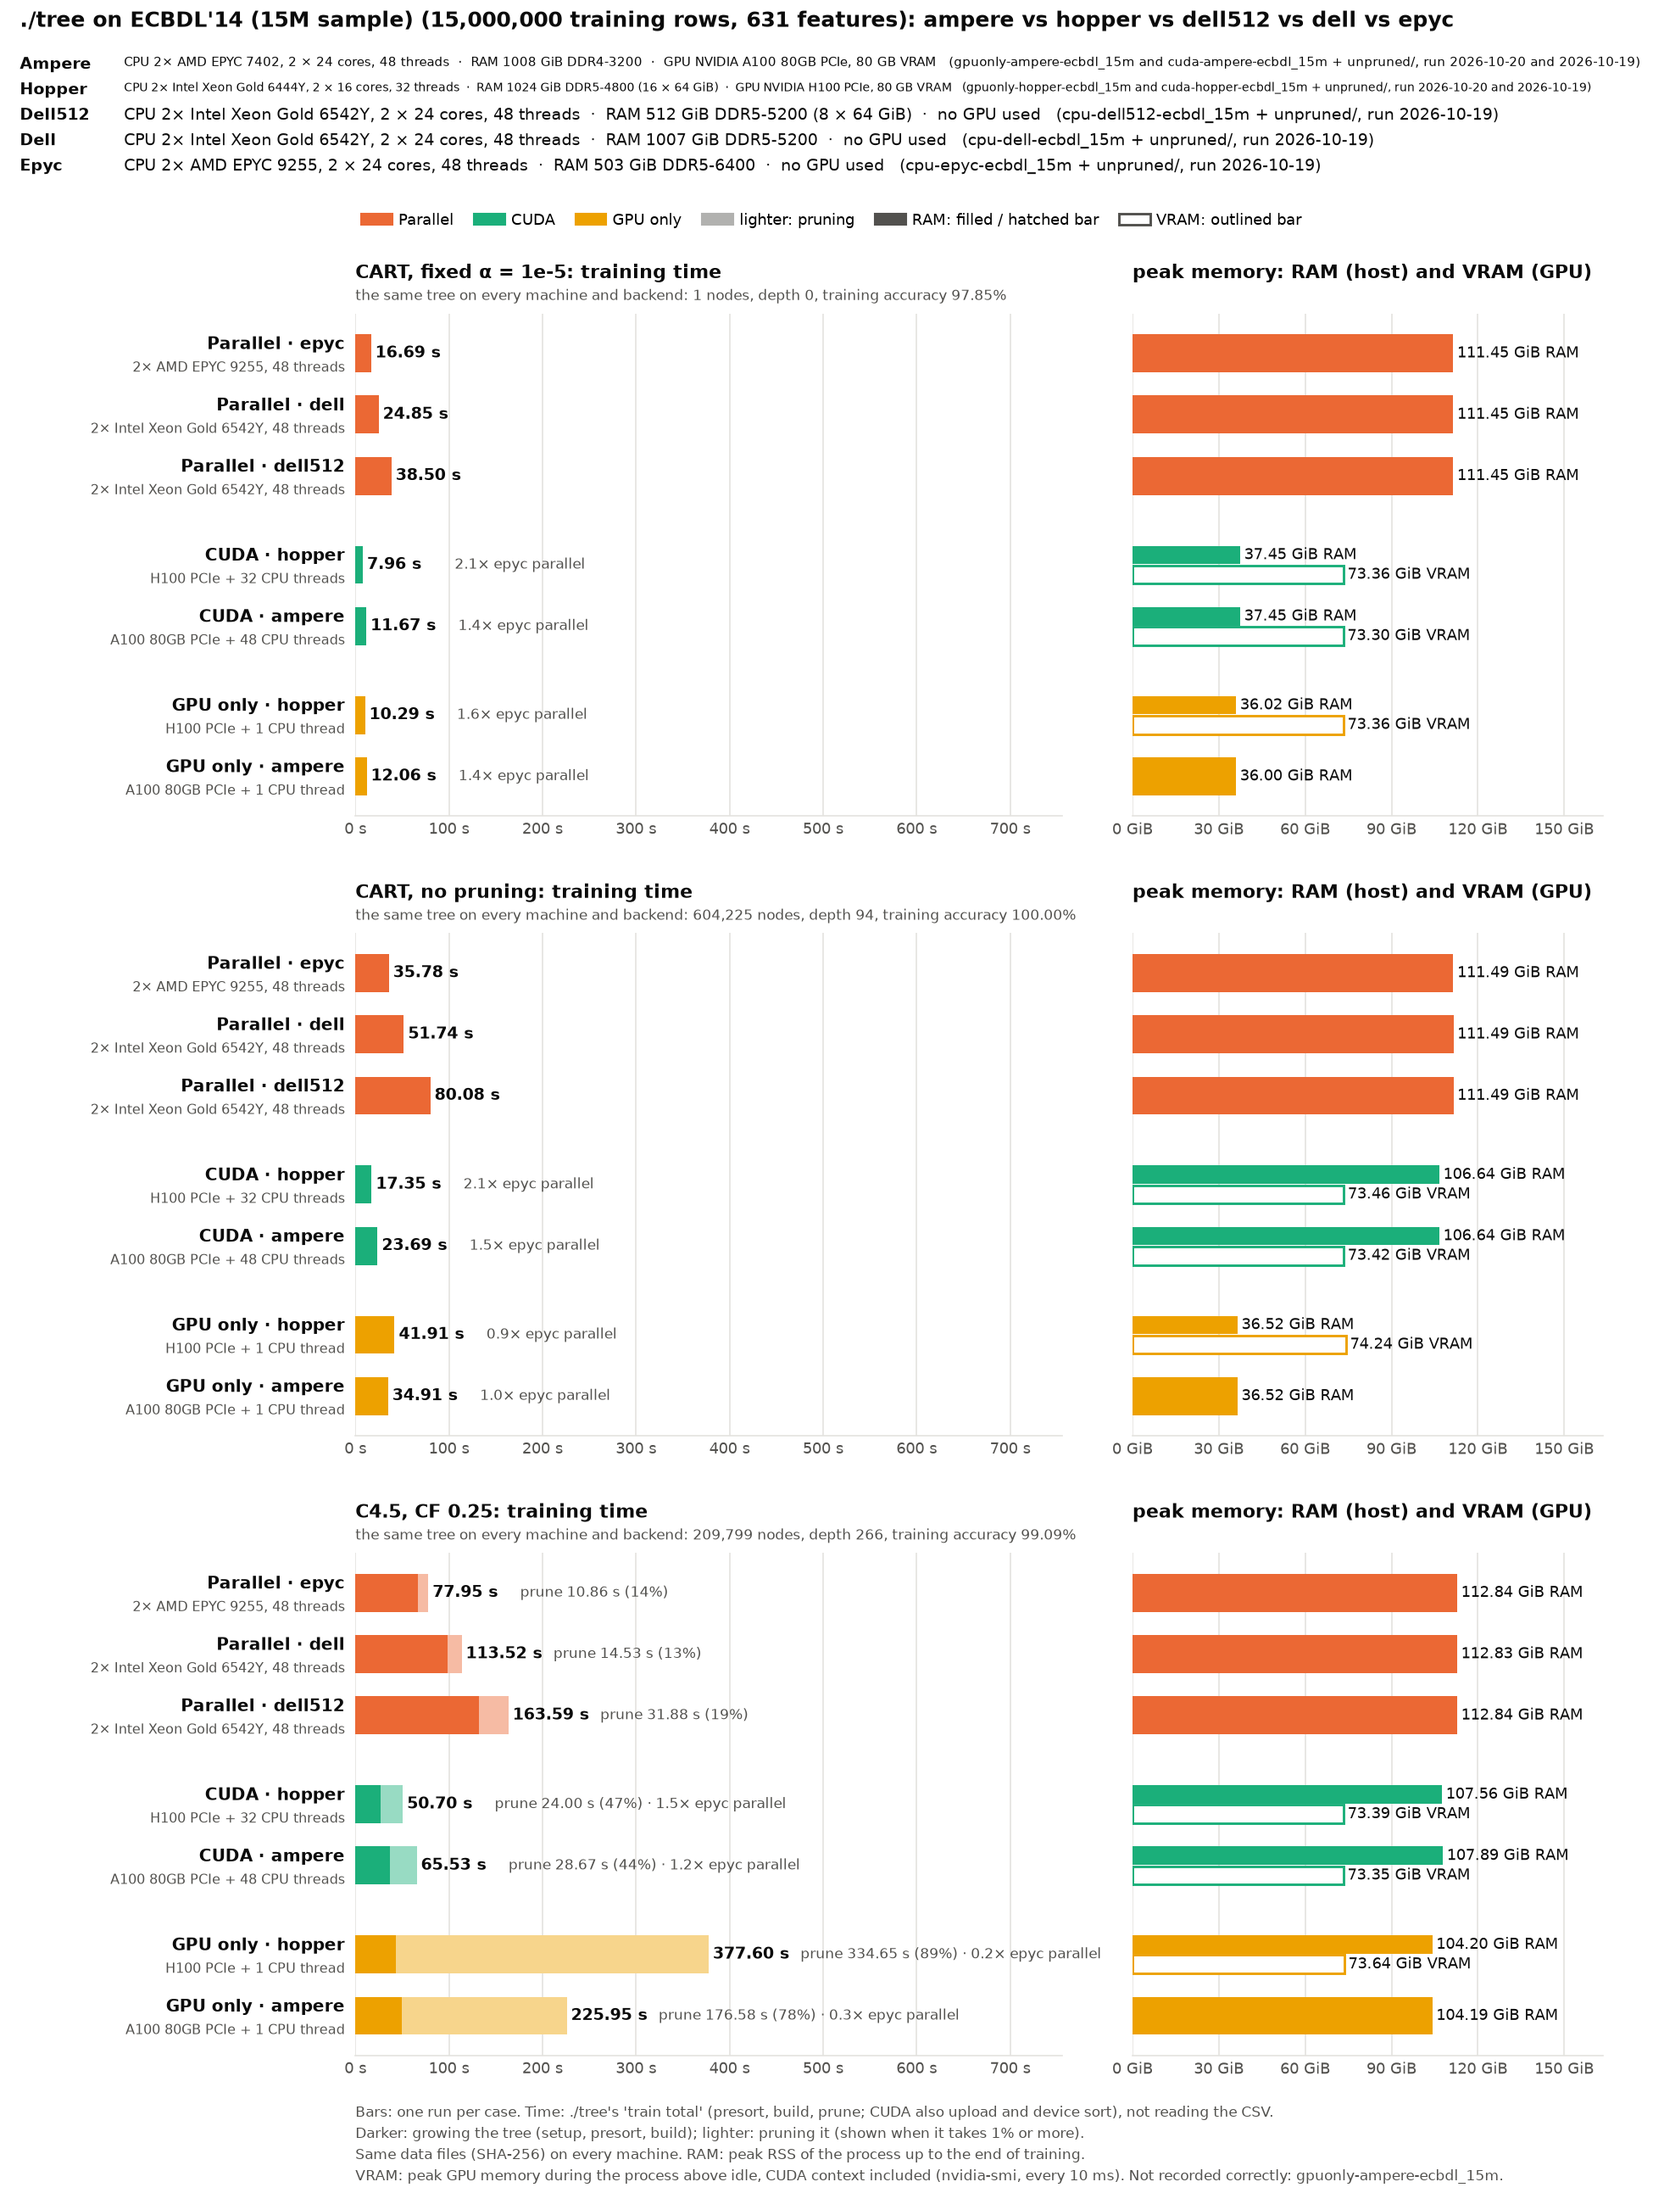
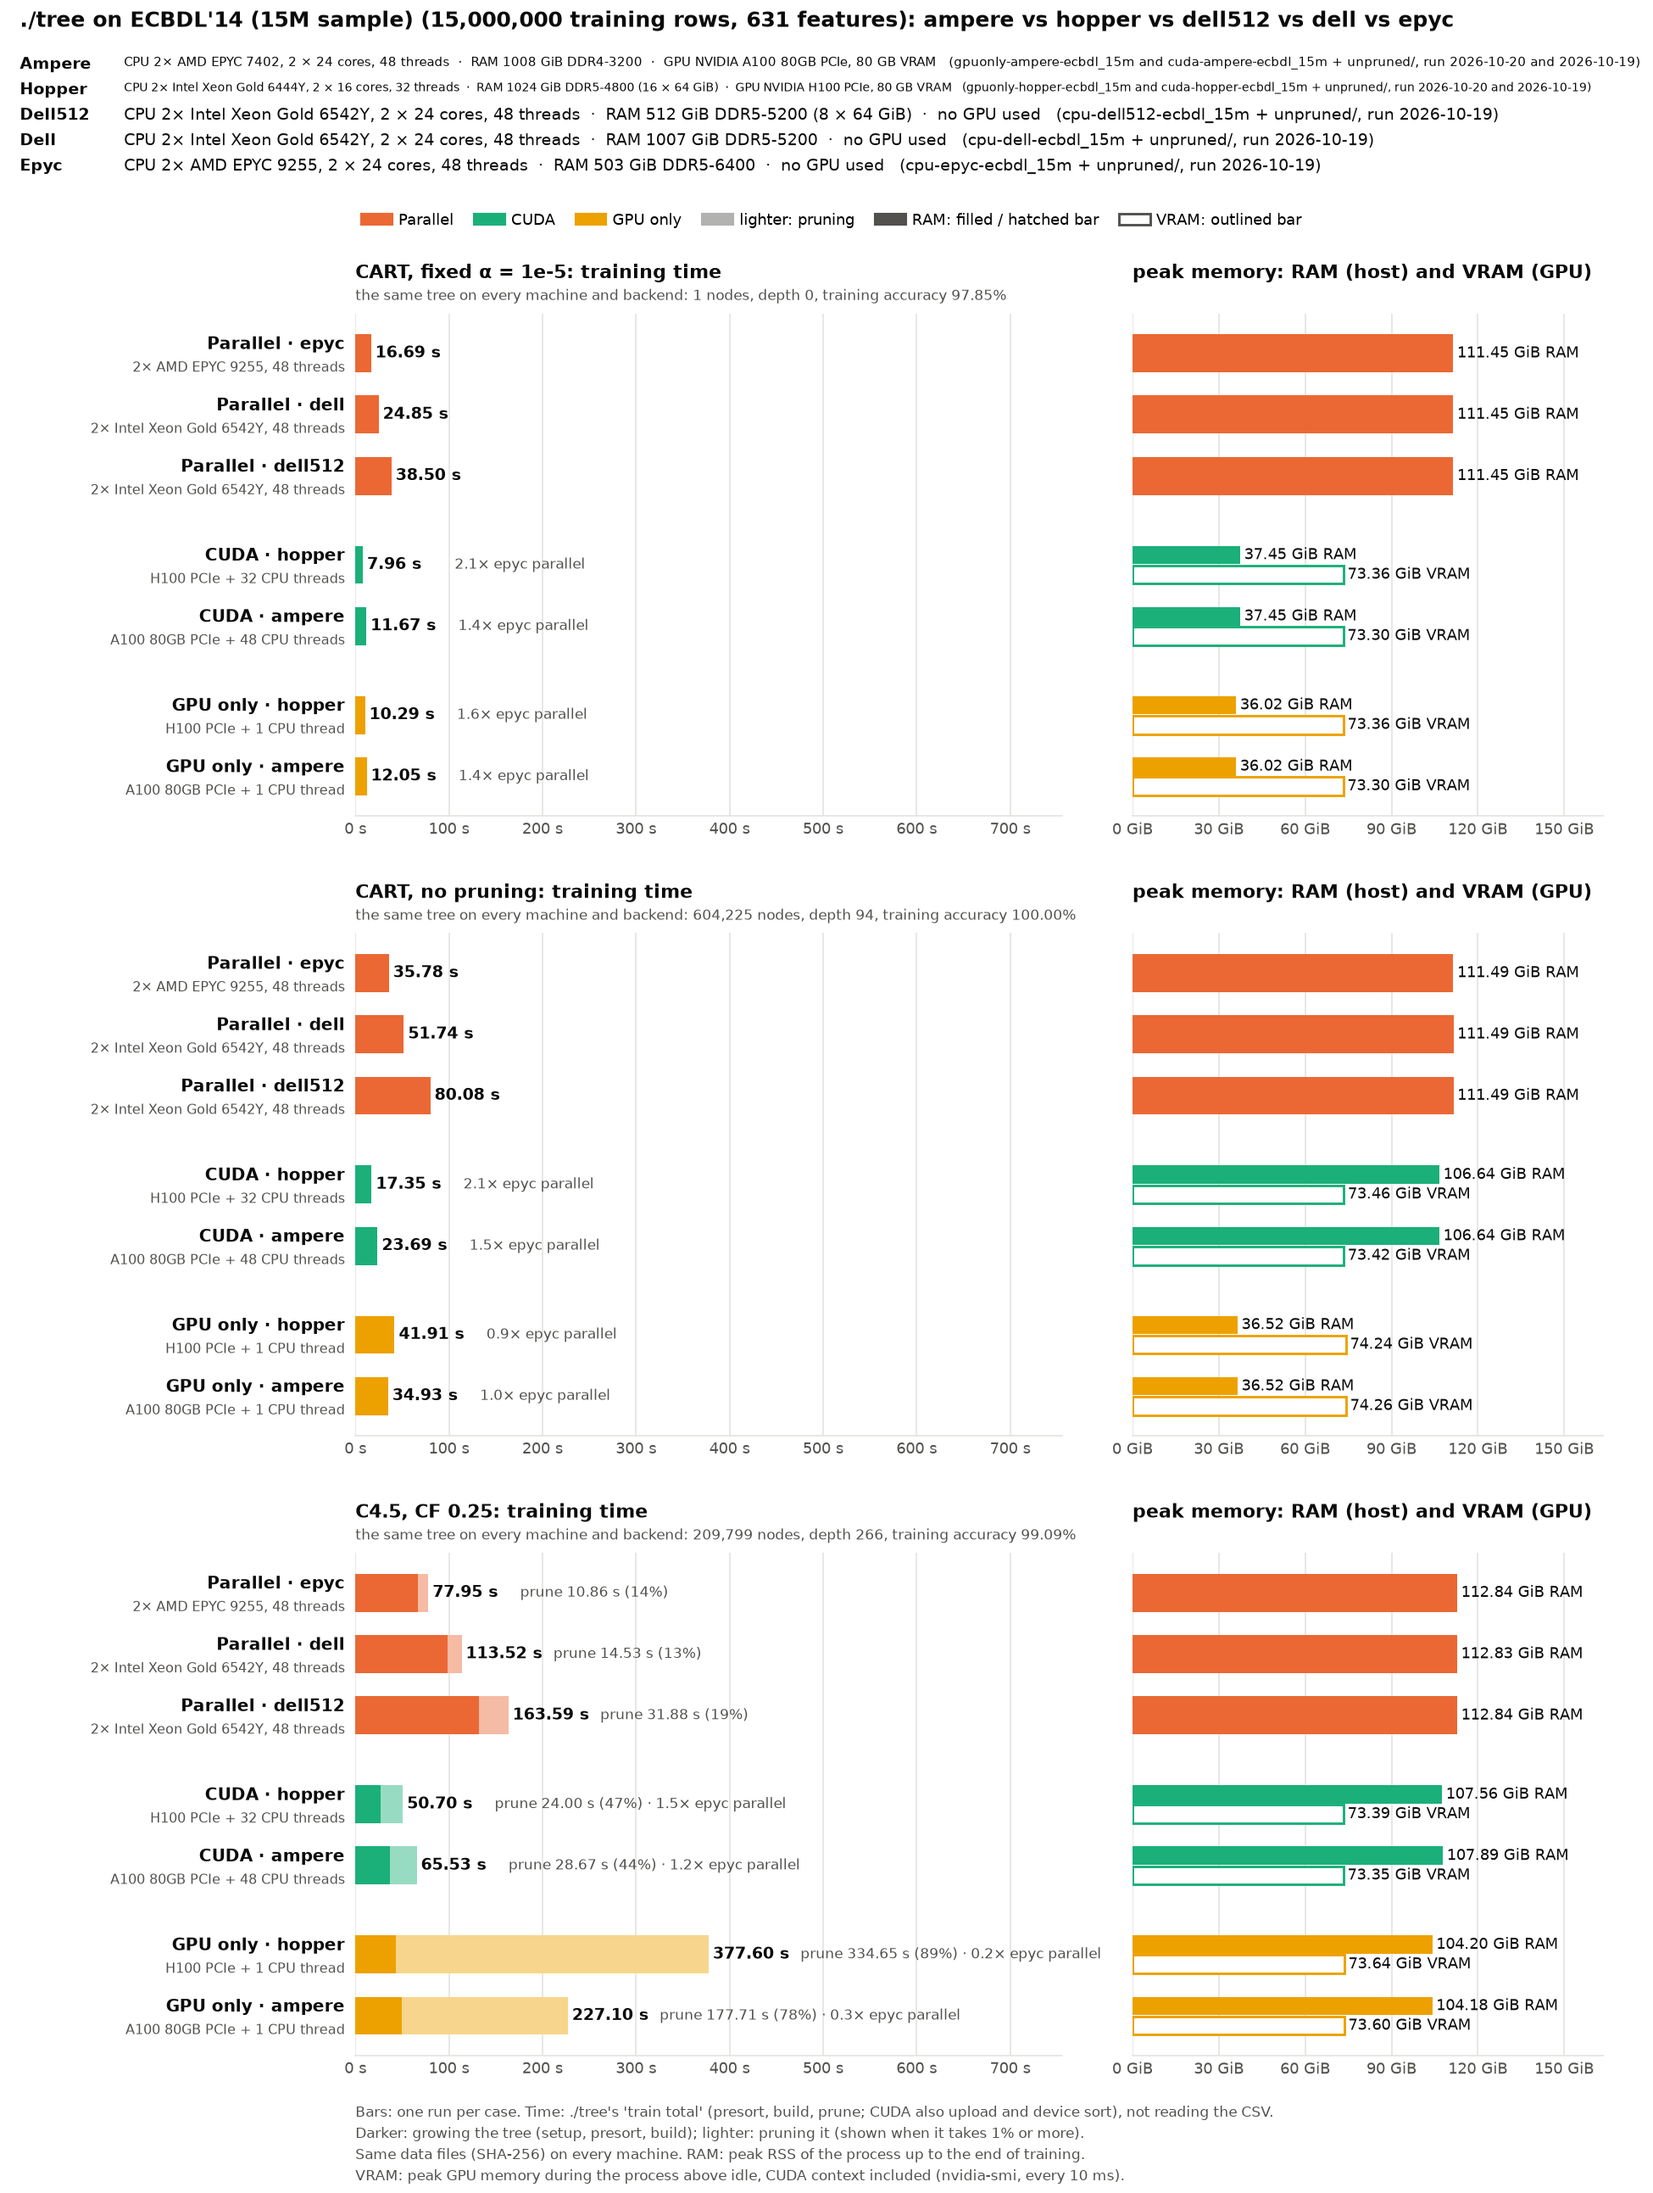
cluster-ecbdl: gpuonly-ampere rerun at ba22356 with its VRAM recorded (73.3 / 74.3 / 73.6 GiB); chart without --no-vram

diff --git a/bench/results/cluster-ecbdl/BENCHMARK.md b/bench/results/cluster-ecbdl/BENCHMARK.md
@@ -3,7 +3,7 @@
 **Status:** one run per case, all on 2026-10-19, commit 051949b: cd18717 (one copy of the presorted columns on every backend, [docs/PERFORMANCE.md](../../../docs/PERFORMANCE.md)) plus `./tree --profile` and the count tables filled without a zero-fill on one thread. The same trees as on cd18717, the times within −2% to +5%. `machine.json` says `-dirty` only because the previous result files had been removed from the cluster's checkout for the rerun; the code was committed.
 - **15M sample** (`*-ecbdl_15m`, pruned and `unpruned/`): dell2 15:10–15:22, epyc1 15:14–15:25, dell1 15:15–15:25.
 - **CUDA rows rerun at 6f6cecb** (hopper and ampere, 2026-10-19 20:25–20:40): the GPU's hand-offs go through page-locked buffers instead of a page-locked arena ([docs/PERFORMANCE.md](../../../docs/PERFORMANCE.md)), and the host threads partition big nodes in blocks (d9da007). The same trees. 051949b's CUDA times are given as "was" below.
-- **GPU only rows** (`gpuonly-*-ecbdl_15m`, `--cuda --gpu-only --threads 1`, all three protocols in one directory): the runs without `--profile` of [cluster-ecbdl-profile/gpu-only](../cluster-ecbdl-profile/gpu-only/BENCHMARK.md) (`plain/`, copied here), 2026-10-20, commit 6da527e (6f6cecb plus `--gpu-only`): hopper 09:16–09:36, ampere 09:20–09:40. The same trees.
+- **GPU only rows** (`gpuonly-*-ecbdl_15m`, `--cuda --gpu-only --threads 1`, all three protocols in one directory): the runs without `--profile` of [cluster-ecbdl-profile/gpu-only](../cluster-ecbdl-profile/gpu-only/BENCHMARK.md) (`plain/`, copied here), 2026-10-20, commit 6da527e (6f6cecb plus `--gpu-only`): hopper 09:16–09:36. ampere's were rerun at ba22356 (2026-10-20 10:48–11:03, the same ./tree; `-dirty` only because the old result files had been moved aside), since run.py had not recorded their VRAM (below); its times were within 0.5% of the first run's. The same trees.
 - **Full set** (`*-ecbdl`, pruned and `unpruned/`): dell2 15:23–15:51, epyc1 15:25–15:51, dell1 15:25–15:50.
 - **Each node ran alone** and was used whole. The jobs ran one after another on each node, after the other cluster benchmarks of the same commit.
 - **Same trees:** every case built the same tree on every node and backend, and the full set's trees are the same as before the rerun.
@@ -23,12 +23,13 @@ bench/cluster/submit.sh -d ecbdl cpu-dell512-ecbdl
 bench/cluster/submit.sh -d ecbdl_15m $P cpu-dell512-ecbdl_15m
 bench/cluster/submit.sh -d ecbdl $P cpu-dell512-ecbdl
 bench/cluster/profile.sh -o cluster-ecbdl-profile/gpu-only gpuonly-hopper-ecbdl_15m gpuonly-ampere-ecbdl_15m
-cp -r bench/results/cluster-ecbdl-profile/gpu-only/plain/gpuonly-* bench/results/cluster-ecbdl/   # GPU only rows
+cp -r bench/results/cluster-ecbdl-profile/gpu-only/plain/gpuonly-hopper-* bench/results/cluster-ecbdl/   # GPU only rows
+bench/cluster/submit.sh -d ecbdl_15m -p cart_alpha_nodepth,cart_full_nodepth,c45 -o cluster-ecbdl gpuonly-ampere-ecbdl_15m
 d=bench/results/cluster-ecbdl                            # the charts
 bench/.venv/bin/python bench/machines_chart.py --protocols cart_alpha_nodepth,cart_full_nodepth,c45 \
     --more $d/unpruned $d/cuda-hopper-ecbdl_15m $d/cuda-ampere-ecbdl_15m $d/cpu-epyc-ecbdl_15m \
     $d/cpu-dell-ecbdl_15m $d/cpu-dell512-ecbdl_15m $d/gpuonly-hopper-ecbdl_15m $d/gpuonly-ampere-ecbdl_15m \
-    --no-vram gpuonly-ampere-ecbdl_15m --out $d/chart.png
+    --out $d/chart.png
 bench/.venv/bin/python bench/machines_chart.py --protocols cart_alpha_nodepth,cart_full_nodepth,c45 \
     --more $d/unpruned $d/cpu-epyc-ecbdl $d/cpu-dell-ecbdl $d/cpu-dell512-ecbdl --out $d/chart-full.png
 ```
@@ -64,10 +65,10 @@ Each bar is ./tree's training time (`train total`: GPU setup, presort, build and
 | Parallel · dell (Xeon 6542Y, 48 threads) | 24.85 s | 51.74 s | 113.52 s (14.53 s) | 111.4 / 111.5 / 112.8 GiB | – |
 | Parallel · dell512 (the same, half the memory channels) | 38.50 s | 80.08 s | 163.59 s (31.88 s) | 111.4 / 111.5 / 112.8 GiB | – |
 | GPU only · hopper (H100, 1 CPU thread) | 10.29 s | 41.91 s | 377.60 s (334.65 s) | 36.0 / 36.5 / 104.2 GiB | 73.4 / 74.2 / 73.4 GiB |
-| GPU only · ampere (A100, 1 CPU thread) | 12.06 s | 34.91 s | 225.95 s (176.58 s) | 36.0 / 36.5 / 104.2 GiB | not recorded |
+| GPU only · ampere (A100, 1 CPU thread) | 12.05 s | 34.93 s | 227.10 s (177.71 s) | 36.0 / 36.5 / 104.2 GiB | 73.3 / 74.3 / 73.6 GiB |
 
-- **GPU only** (every node on the GPU, one CPU thread) is slower than CUDA with the CPU's threads in every case: pruned CART 1.29× (H100) and 1.03× (A100), unpruned CART 2.4× and 1.5×, C4.5 7.4× and 3.4×. C4.5's pruning on one thread is 89% (H100) and 78% (A100) of the run; ampere's EPYC 7402 core prunes it 1.9× faster than hopper's Xeon. Unpruned CART on the GPU alone is still faster than dell512, and on the A100 about as fast as epyc. Without the host arena, unpruned CART needs 36.5 GiB of RAM instead of 106.6. Profiled in [cluster-ecbdl-profile/gpu-only](../cluster-ecbdl-profile/gpu-only/BENCHMARK.md).
-- **ampere's GPU only VRAM was not recorded:** nvidia-smi reported a flat 425 MiB in all three cases (also in the profiled runs), so the chart leaves it out (`--no-vram`); it should be about hopper's 73–74 GiB.
+- **GPU only** (every node on the GPU, one CPU thread) is slower than CUDA with the CPU's threads in every case: pruned CART 1.29× (H100) and 1.03× (A100), unpruned CART 2.4× and 1.5×, C4.5 7.4× and 3.5×. C4.5's pruning on one thread is 89% (H100) and 78% (A100) of the run; ampere's EPYC 7402 core prunes it 1.9× faster than hopper's Xeon. Unpruned CART on the GPU alone is still faster than dell512, and on the A100 about as fast as epyc. Without the host arena, unpruned CART needs 36.5 GiB of RAM instead of 106.6; VRAM is the same as with the CPU's threads, 73.3–74.3 GiB. Profiled in [cluster-ecbdl-profile/gpu-only](../cluster-ecbdl-profile/gpu-only/BENCHMARK.md).
+- **ampere's GPU only VRAM was first not recorded** (a flat 425 MiB, also in the profiled runs): run.py read nvidia-smi's 10 ms samples from a pipe only at the end, and a full pipe (64 KiB, about 170 s of samples) blocks nvidia-smi. ampere's one-thread CSV read took 210–216 s before training (hopper's 141–146 s), so only the CUDA context was sampled. Since ba22356 the samples go to a file.
 - **The H100 is 2.1× (CART), 2.1× (unpruned CART) and 1.5× (C4.5) faster than epyc**, a little more than on the 6M sample (1.8×, 1.7× and 1.6×) except C4.5, still less than on airline (6.2× for pruned CART). Profiled in [cluster-ecbdl-profile](../cluster-ecbdl-profile/gpu-plus-cpu/BENCHMARK.md): the H100 grows 2.0–2.5× faster than epyc, but C4.5's pruning runs on the slower host CPUs.
 - **6f6cecb against 051949b on the GPUs:** the page-locking of the 75 GB hand-off arena is gone (it held up the GPU loop 1.2–1.9 s): unpruned CART 18.28 → 17.35 s (H100) and 25.93 → 23.69 s (A100), A100 C4.5 66.95 → 65.53 s; pruned CART, which hands over little, is unchanged. The H100's C4.5 went 46.56 → 50.70 s, all in the pruning on the host CPUs (18.7 → 24.0 s; growing 27.9 → 26.7 s). Pruning does not touch the changed code: in a same-job comparison that evening both builds pruned equally slowly (52.7 s against 51.3 s in total), with hopper's NUMA node 0 nearly full (11–28 GB free of 516).
 - **C4.5's pruning is 44–47% of a CUDA run** (27–31% on the 6M sample) and slower than on the CPU servers (24.0 and 28.7 s against epyc's 10.9 s). It runs on the GPU nodes' slower host CPUs, and its first step (the rows sorted by leaf) runs on the host too: a copy of the raw values for doing it on the GPU (4 bytes per value, 35 GiB) no longer fits beside the columns, and ./tree keeps it only when it fits.

diff --git a/bench/results/cluster-ecbdl/gpuonly-ampere-ecbdl_15m/report.md b/bench/results/cluster-ecbdl/gpuonly-ampere-ecbdl_15m/report.md
@@ -1,6 +1,6 @@
 ## gpuonly-ampere-ecbdl_15m
 
-**gpuonly-ampere-ecbdl_15m**: AMD EPYC 7402 24-Core Processor, 48 logical CPUs (P-cores None, E-cores None), 1008 GiB, Linux 7.0.0-38-generic #38~24.04.4-Ubuntu SMP PREEMPT_DYNAMIC Mon Sep 14 16:37:11 UTC 2 x86_64, governor ondemand, turbo on, ./tree 6da527edb711, CPUs in order of use 0-47, 1 run(s) per case, warm-up 50000 rows
+**gpuonly-ampere-ecbdl_15m**: AMD EPYC 7402 24-Core Processor, 48 logical CPUs (P-cores None, E-cores None), 1008 GiB, Linux 7.0.0-38-generic #38~24.04.4-Ubuntu SMP PREEMPT_DYNAMIC Mon Sep 14 16:37:11 UTC 2 x86_64, governor ondemand, turbo on, ./tree ba22356bf705-dirty, CPUs in order of use 0-47, 1 run(s) per case, warm-up 50000 rows
 
 Runtime footprint (peak RSS on the 200-row _baseline dataset): ./tree CUDA, GPU only 641 MiB
 
@@ -10,16 +10,16 @@ Runtime footprint (peak RSS on the 200-row _baseline dataset): ./tree CUDA, GPU 
 
 | Implementation | Train time (median) | min–max | × ./tree | Peak RSS | RSS − footprint | Nodes | Leaves | Depth | Train acc. | Test acc. |
 |---|--:|--:|--:|--:|--:|--:|--:|--:|--:|--:|
-| ./tree CUDA, GPU only | 12.1 s | 12.1 s–12.1 s |  | 36.00 GiB (+ GPU 425 MiB) | 35.38 GiB | 1 | 1 | 0 | 97.85% |  |
+| ./tree CUDA, GPU only | 12.1 s | 12.1 s–12.1 s |  | 36.02 GiB (+ GPU 73.30 GiB) | 35.39 GiB | 1 | 1 | 0 | 97.85% |  |
 
 **CART, grown to pure leaves, no pruning, no depth limit** (`cart_full_nodepth`), 1 thread
 
 | Implementation | Train time (median) | min–max | × ./tree | Peak RSS | RSS − footprint | Nodes | Leaves | Depth | Train acc. | Test acc. |
 |---|--:|--:|--:|--:|--:|--:|--:|--:|--:|--:|
-| ./tree CUDA, GPU only | 34.9 s | 34.9 s–34.9 s |  | 36.52 GiB (+ GPU 425 MiB) | 35.89 GiB | 604,225 | 302,113 | 94 | 100.00% |  |
+| ./tree CUDA, GPU only | 34.9 s | 34.9 s–34.9 s |  | 36.52 GiB (+ GPU 74.26 GiB) | 35.89 GiB | 604,225 | 302,113 | 94 | 100.00% |  |
 
 **C4.5, error-based pruning (CF 0.25, subtree raising), min 2 rows** (`c45`), 1 thread
 
 | Implementation | Train time (median) | min–max | × ./tree | Peak RSS | RSS − footprint | Nodes | Leaves | Depth | Train acc. | Test acc. |
 |---|--:|--:|--:|--:|--:|--:|--:|--:|--:|--:|
-| ./tree CUDA, GPU only | 226 s | 226 s–226 s |  | 104.19 GiB (+ GPU 425 MiB) | 103.56 GiB | 209,799 | 104,900 | 266 | 99.09% |  |
+| ./tree CUDA, GPU only | 227 s | 227 s–227 s |  | 104.18 GiB (+ GPU 73.60 GiB) | 103.55 GiB | 209,799 | 104,900 | 266 | 99.09% |  |

diff --git a/bench/results/cluster-ecbdl-profile/gpu-only/BENCHMARK.md b/bench/results/cluster-ecbdl-profile/gpu-only/BENCHMARK.md
@@ -60,7 +60,7 @@ No hand-off kernels or copies; device→host is 0.1 GB for C4.5 (44.7 GB with ha
 | VRAM, hopper | 73.3–74.3 GiB | 73.3–73.4 GiB |
 
 - **Without the host arena,** unpruned CART needs 36.5 GiB of RAM instead of 106.7 GiB. C4.5's pruning needs about 104 GiB in both.
-- **ampere's VRAM was not recorded:** the nvidia-smi sampler reported a flat 425 MiB in every gpu-only case on ampere (also in `plain/`), while on hopper it saw 73–74 GiB. The chess gpu-only runs on ampere, just before these, were recorded correctly (25.4 GiB at 1000M rows); the cause was not looked into.
+- **ampere's VRAM was not recorded:** the nvidia-smi sampler reported a flat 425 MiB in every gpu-only case on ampere (also in `plain/`), while on hopper it saw 73–74 GiB. run.py read the samples from a pipe only at the end, and the full pipe (64 KiB, about 170 s of 10 ms samples) blocked nvidia-smi during ampere's 210–216 s one-thread CSV read, before training (hopper's took 141–146 s). Fixed in ba22356; the rerun without `--profile` in [cluster-ecbdl](../../cluster-ecbdl/BENCHMARK.md) measured 73.3 / 74.3 / 73.6 GiB (CART α / unpruned / C4.5).
 
 ## What profiling costs
 
